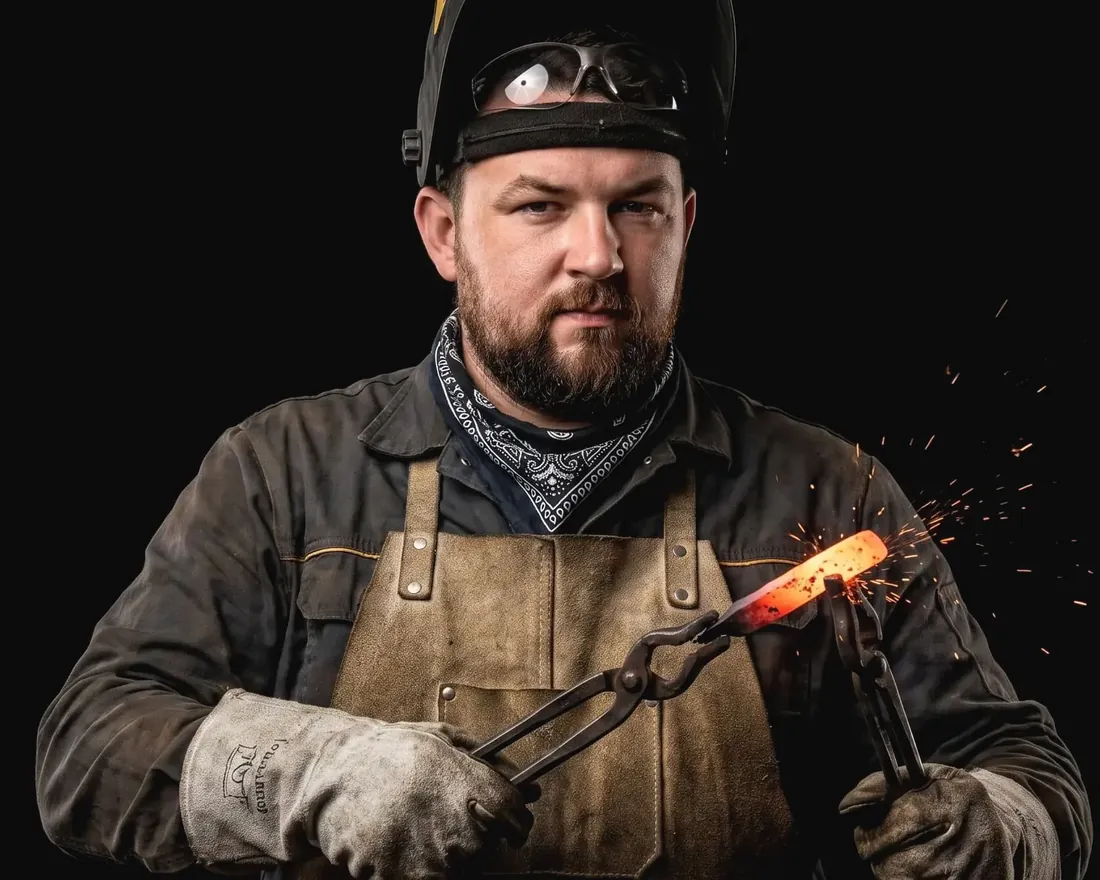
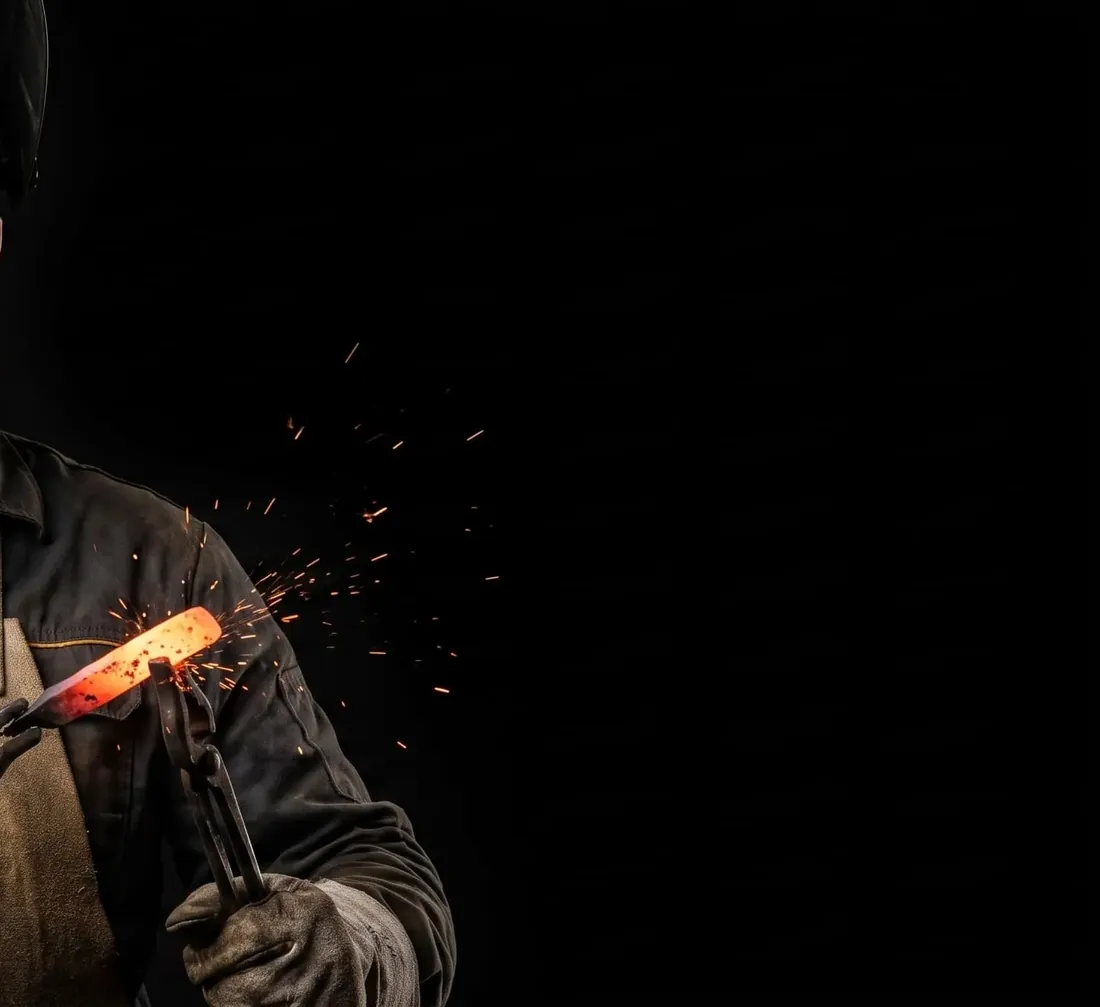
Portrét Pavla s nášivkou Kovovýroba Hrdlička
Stejný výřez na mobilu i desktopu.

diff --git a/src/components/home-page.tsx b/src/components/home-page.tsx
@@ -305,12 +305,12 @@ function AboutTeaser() {
               <ArrowUpRight className="size-3.5" strokeWidth={1.75} />
             </Link>
           </Reveal>
-          <div className="relative grid min-h-[28rem] overflow-hidden md:min-h-80">
+          <div className="relative grid aspect-square overflow-hidden md:aspect-auto md:min-h-80">
             <img
               src="/hero/pavel-portrait.webp"
-              srcSet="/hero/pavel-portrait-700.webp 700w, /hero/pavel-portrait-1100.webp 1100w, /hero/pavel-portrait.webp 1680w"
+              srcSet="/hero/pavel-portrait-700.webp 700w, /hero/pavel-portrait-1100.webp 1100w, /hero/pavel-portrait.webp 1468w"
               sizes="(min-width: 768px) 32rem, 100vw"
-              width={1680}
+              width={1468}
               height={1344}
               alt="Pavel Hrdlička při práci s rozžhavenou ocelí"
               loading="lazy"

diff --git a/src/styles.css b/src/styles.css
@@ -186,7 +186,7 @@
     width: 100%;
     height: 100%;
     object-fit: cover;
-    object-position: 55% 28%;
+    object-position: 60% 42%;
   }
 
   .about-portrait-fade {
